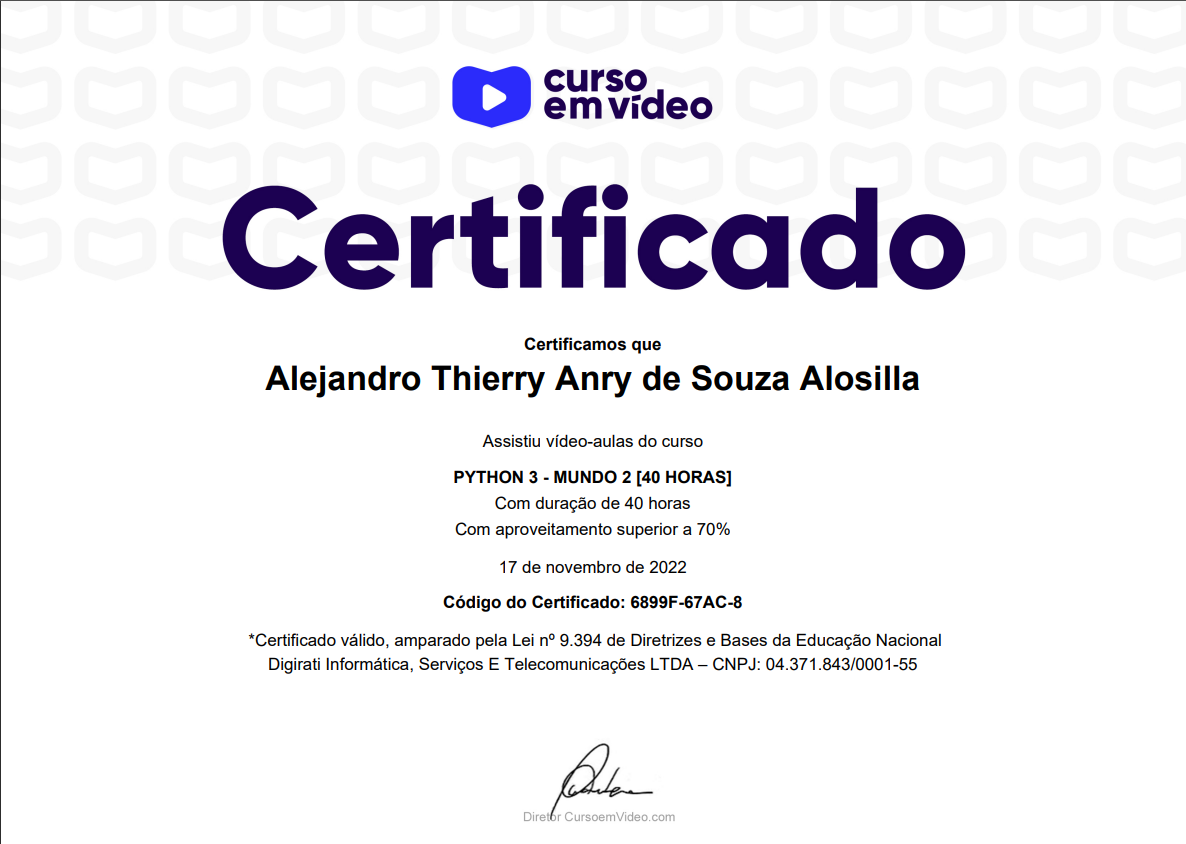
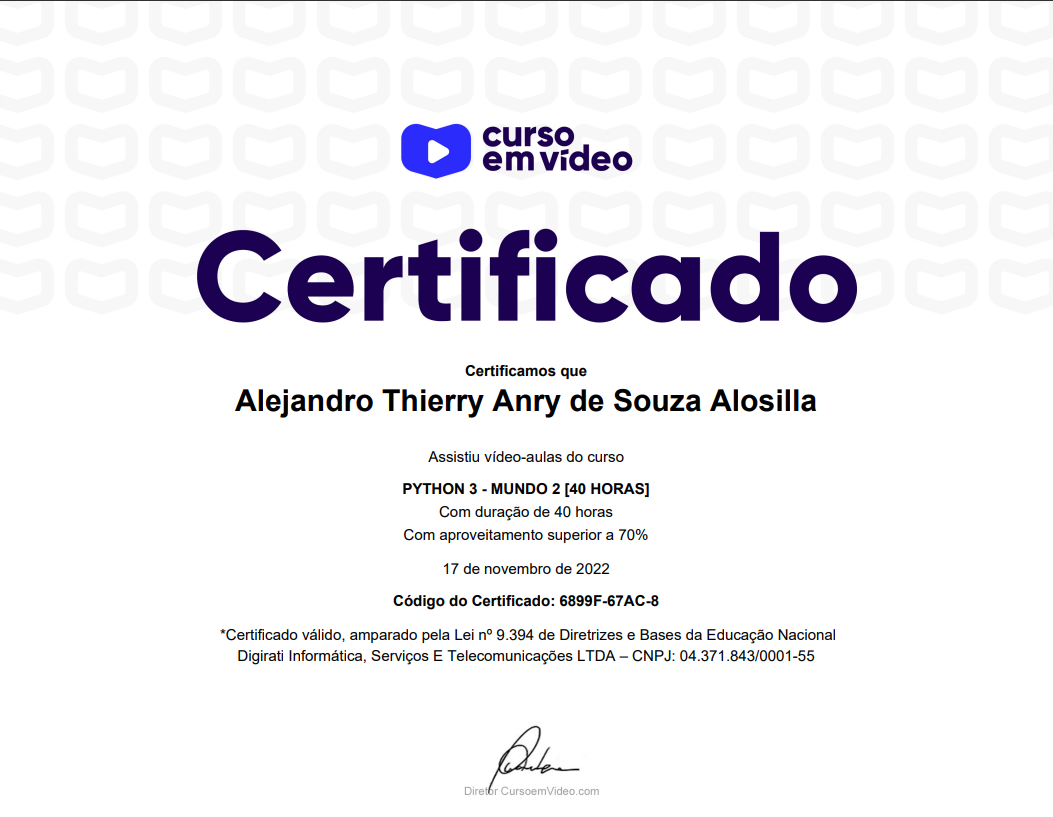
up md 3

Changed region(s): [[0.1823, 0.0612, 0.8205, 0.8262], [0.4558, 0.8874, 0.547, 0.9486]]

diff --git a/README.md b/README.md
@@ -3,13 +3,13 @@
 
 ## Mundo 1:
  
-1. __Início__
+1. __Início:__
    * __ex001__ - *Deixando tudo pronto*
    * __ex002__ - *Respondendo ao Usuário*
-2. __Tipos Primitivos e Saída de Dados__
+2. __Tipos Primitivos e Saída de Dados:__
    * __ex003__ - *Somando dois números*
    * __ex004__ - *Dissecando uma Variável*
-3. __Operadores Aritméticos__
+3. __Operadores Aritméticos:__
    * __ex005__ - *Antecessor e Sucessor*
    * __ex006__ - *Dobro, Triplo, Raiz Quadrada*
    * __ex007__ - *Média Aritmética*
@@ -21,21 +21,21 @@
    * __ex013__ - *Reajuste Salarial*
    * __ex014__ - *Conversor de Temperaturas*
    * __ex015__ - *Aluguel de Carros*
-4. __Utilizando Módulos__
+4. __Utilizando Módulos:__
    * __ex016__ - *Quebrando um número*
    * __ex017__ - *Catetos e Hipotenusa*
    * __ex018__ - *Seno, Cosseno e Tangente*
    * __ex019__ - *Sorteando um item na lista*
    * __ex020__ - *Sorteando uma ordem na lista*
    * __ex021__ - *Tocando um MP3*
-5. __Manipulando Texto__
+5. __Manipulando Texto:__
    * __ex022__ - *Analisador de Textos*
    * __ex023__ - *Separando dígitos de um número*
    * __ex024__ - *Verificando as primeiras letras de um texto*
    * __ex025__ - *Procurando uma string dentro de outra*
    * __ex026__ - *Primeira e última ocorrência de uma string*
    * __ex027__ - *Primeiro e último nome de uma pessoa*
-6. __Condições (Parte 1)__
+6. __Condições (Parte 1):__
    * __ex028__ - *Jogo da Adivinhação v.1.0*
    * __ex029__ - *Radar eletrônico*
    * __ex030__ - *Par ou Ímpar*
@@ -50,7 +50,7 @@
 
 ## Mundo 2:
 
-1. __Condições Aninhadas__
+1. __Condições Aninhadas:__
    * __ex036__ - *Aprovando Empréstimo*
    * __ex037__ - *Conversor de Bases Numéricas*
    * __ex038__ - *Comparando números*
@@ -61,7 +61,7 @@
    * __ex043__ - *Índice de Massa Corporal*
    * __ex044__ - *Gerenciador de Pagamentos*
    * __ex045__ - *GAME Pedra Papel e Tesoura*
-2. __Estrutura de repetição for__
+2. __Estrutura de repetição for:__
    * __ex046__ - *Contagem regressiva*
    * __ex047__ - *Contagem de pares*
    * __ex048__ - *Soma ímpares múltiplos de três*
@@ -73,7 +73,7 @@
    * __ex054__ - *Grupo da Maioridade*
    * __ex055__ - *Maior e menor da sequência*
    * __ex056__ - *Analisador completo*
-3. __Estrutura de repetição while__
+3. __Estrutura de repetição while:__
    * __ex057__ - *Validação de Dados*
    * __ex058__ - *Jogo da Adivinhação v2.0*
    * __ex059__ - *Criando um Menu de Opções*
@@ -83,7 +83,7 @@
    * __ex063__ - *Sequência de Fibonacci v1.0*
    * __ex064__ - *Tratando vários valores v1.0*
    * __ex065__ - *Maior e Menor valores*
-4. __Interrompendo repetições while__
+4. __Interrompendo repetições while:__
    * __ex066__ - *Vários números com flag*
    * __ex067__ - *Tabuada v3.0*
    * __ex068__ - *Jogo do Par ou Ímpar*
@@ -93,3 +93,61 @@
 
 ## ✔ Certificado Mundo 2:
 ![Certificado Python 3 - Mundo 2](mundo2.png)
+
+## Mundo 3:
+
+1. __Tuplas:__
+   * __ex072__ - *Número por Extenso*
+   * __ex073__ - *Tuplas com Times de Futebol*
+   * __ex074__ - *Maior e menor valores em Tupla*
+   * __ex075__ - *Análise de dados em uma Tupla*
+   * __ex076__ - *Lista de Preços com Tupla*
+   * __ex077__ - *Contando vogais em Tupla*
+2. __Listas (Parte 1):__
+   * __ex078__ - *Maior e Menor valores na Lista*
+   * __ex079__ - *Valores únicos em uma Lista*
+   * __ex080__ - *Lista ordenada sem repetições*
+   * __ex081__ - *Extraindo dados de uma Lista*
+   * __ex082__ - *Dividindo valores em várias listas*
+   * __ex083__ - *Validando expressões matemáticas*
+3. __Listas (Parte 2):__
+   * __ex084__ - *Lista composta e análise de dados*
+   * __ex085__ - *Listas com pares e ímpares*
+   * __ex086__ - *Matriz em Python*
+   * __ex087__ - *Mais sobre Matriz em Python*
+   * __ex088__ - *Palpites para a Mega Sena*
+   * __ex089__ - *Boletim com listas compostas*
+4. __Dicionários:__
+   * __ex090__ - *Dicionário em Python*
+   * __ex091__ - *Jogo de Dados em Python*
+   * __ex092__ - *Cadastro de Trabalhador em Python*
+   * __ex093__ - *Cadastro de Jogador de Futebol*
+   * __ex094__ - *Unindo dicionários e listas*
+   * __ex095__ - *Aprimorando os Dicionários*
+5. __Funções (Parte 1):__
+   * __ex096__ - *Função que calcula área*
+   * __ex097__ - *Um print especial*
+   * __ex098__ - *Função de Contador*
+   * __ex099__ - *Função que descobre o maior*
+   * __ex100__ - *Funções para sortear e somar*
+6. __Funções (Parte 2):__
+   * __ex101__ - *Funções para votação*
+   * __ex102__ - *Função para Fatorial*
+   * __ex103__ - *Ficha do Jogador*
+   * __ex104__ - *Validando entrada de dados em Python*
+   * __ex105__ - *Analisando e gerando Dicionários*
+   * __ex106__ - *Sistema interativo de ajuda em Python*
+7. __Módulos e Pacotes:__
+   * __ex107__ - *Exercitando módulos em Python*
+   * __ex108__ - *Formatando Moedas em Python*
+   * __ex109__ - *Formatando Moedas em Python*
+   * __ex110__ - *Reduzindo ainda mais seu programa*
+   * __ex111__ - *Transformando módulos em pacotes*
+   * __ex112__ - *Entrada de dados monetários*
+8. __Tratamento de Erros e Exceções:__
+   * __ex113__ - *Funções aprofundadas em Python*
+   * __ex114__ - *Site está acessível*
+   * __ex115__ - *Criando um menu em Python*
+
+## ✔ Certificado Mundo 2:
+![Certificado Python 3 - Mundo 3](mundo3.png)
